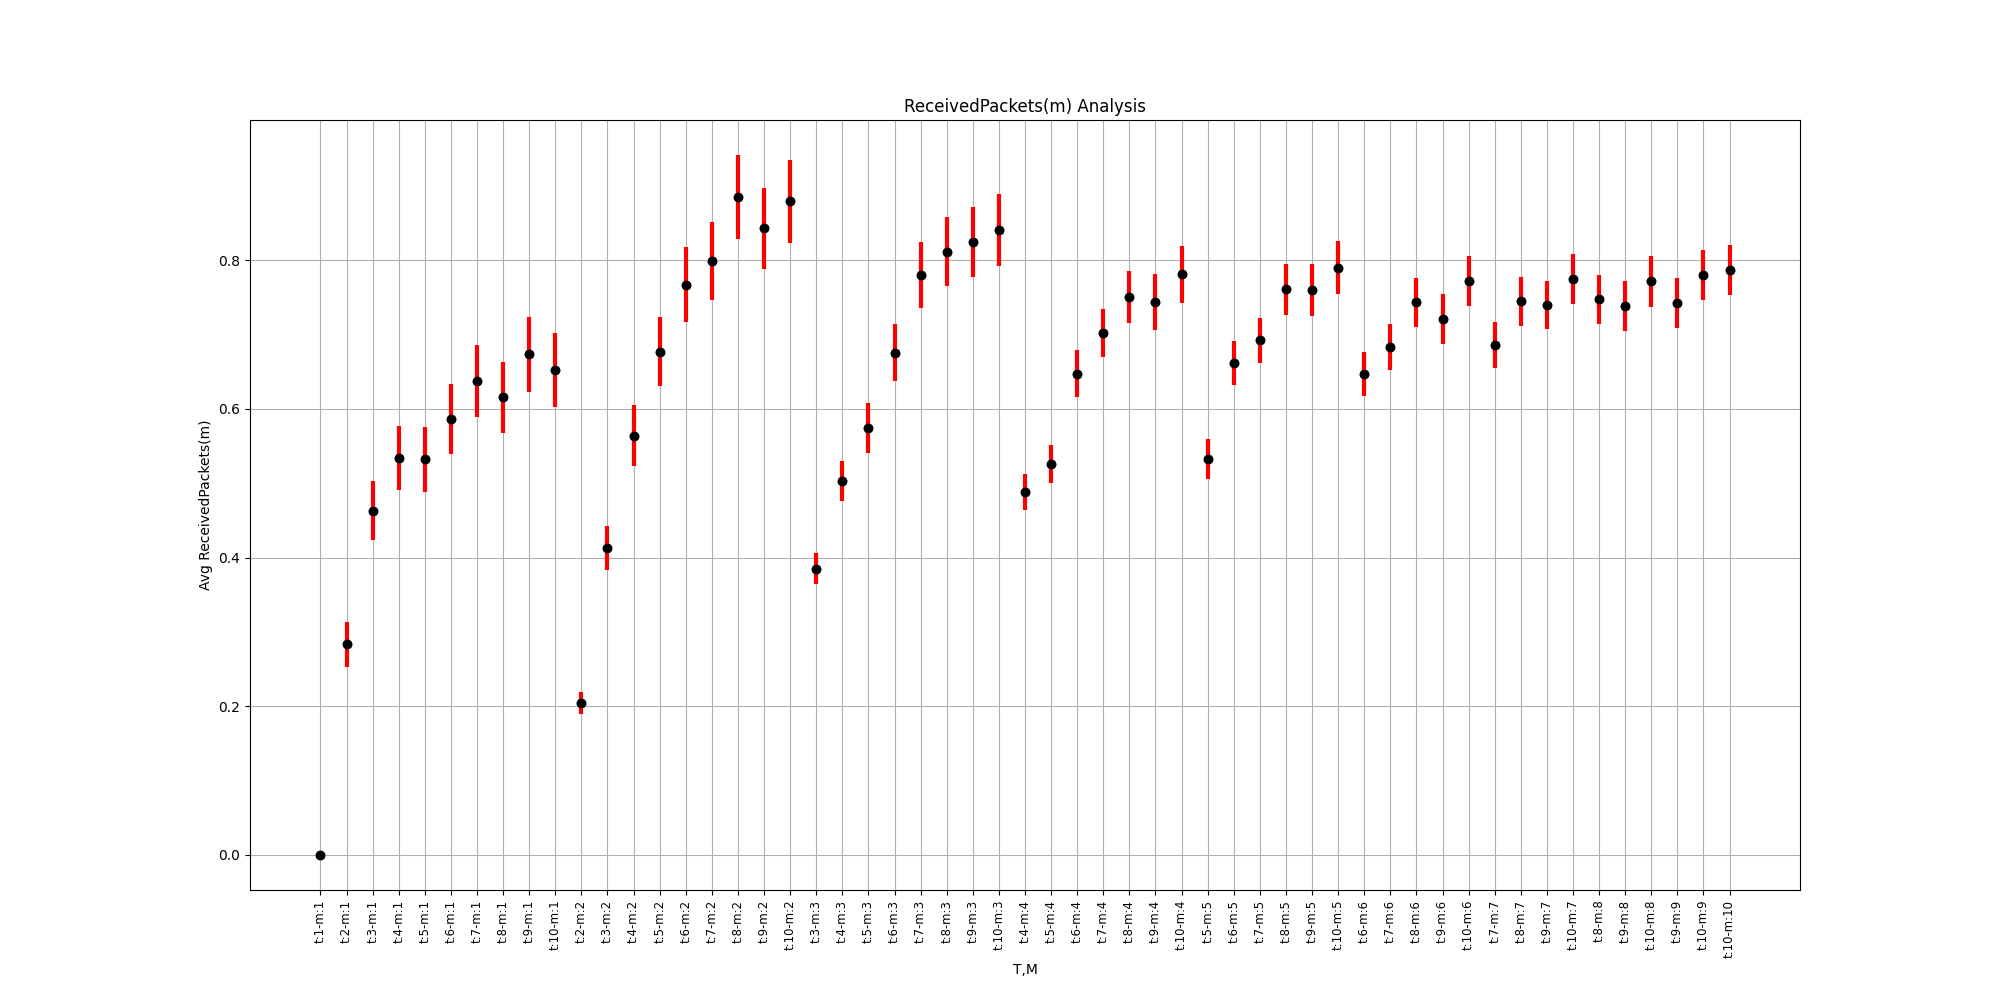
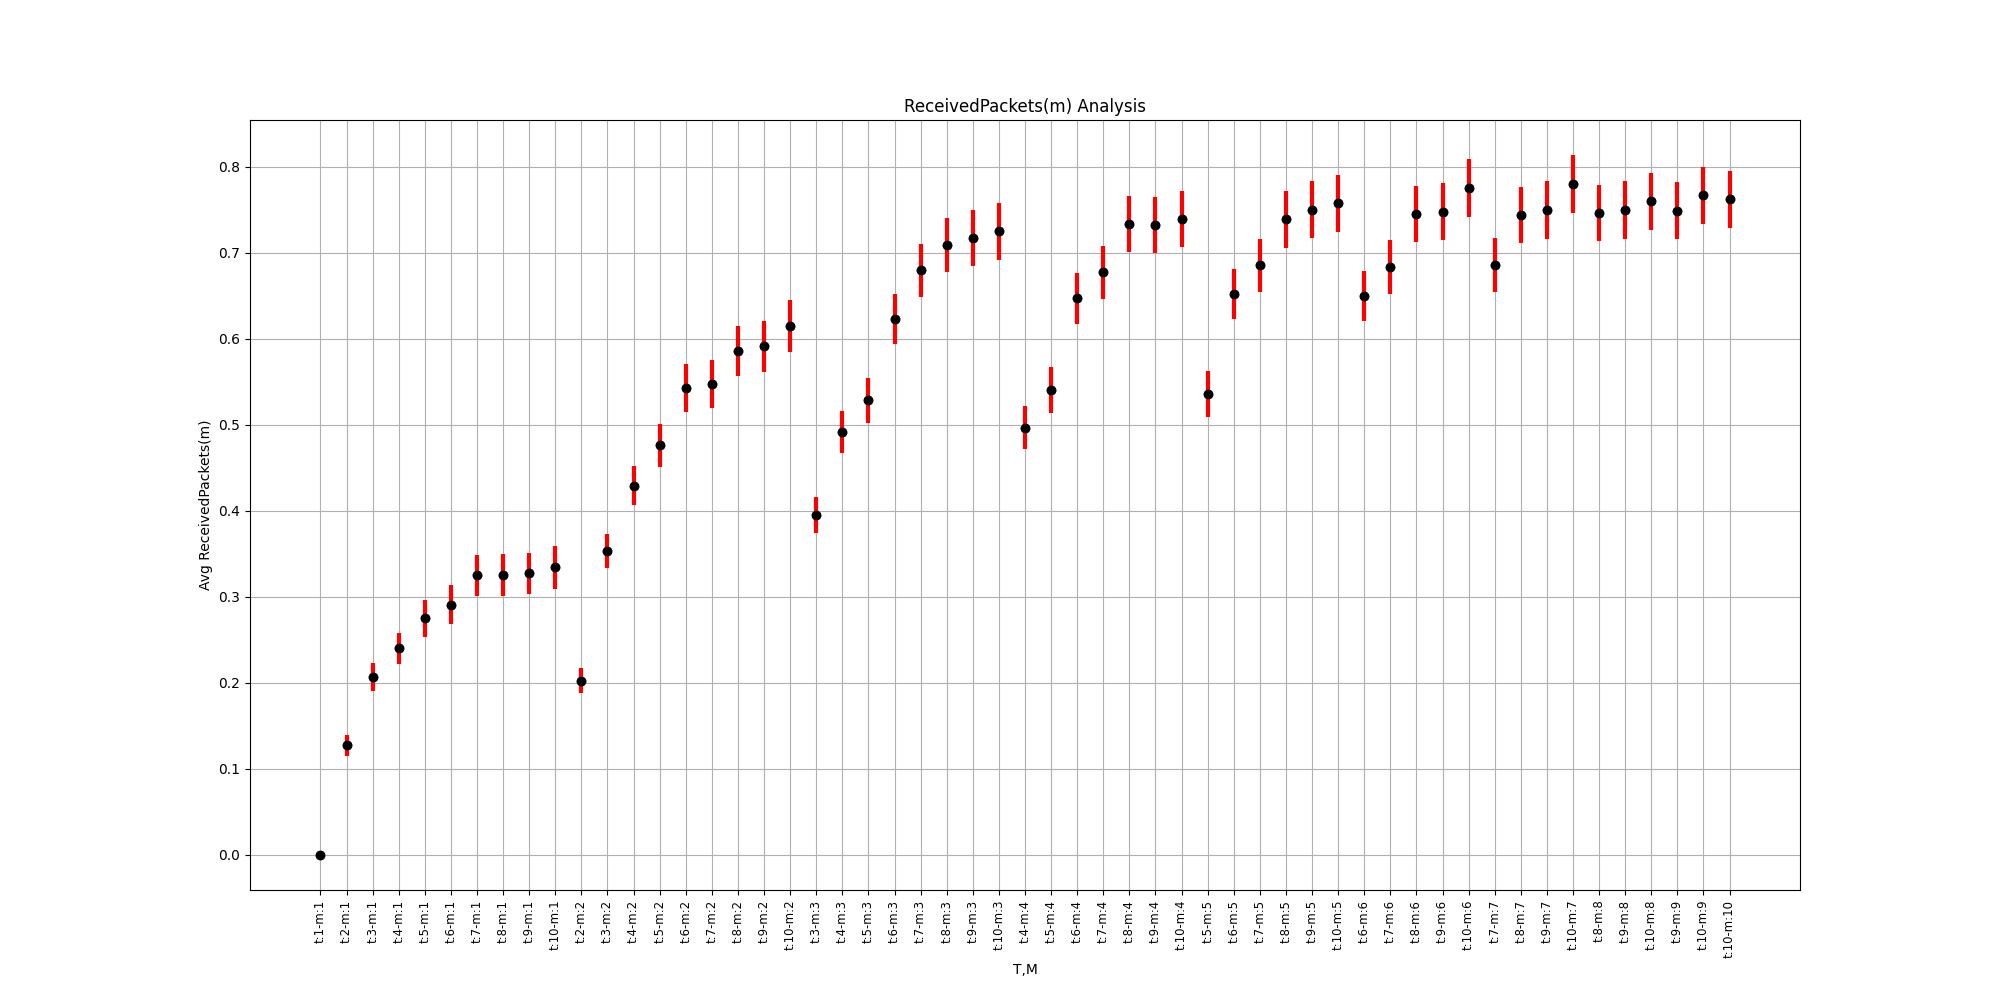
Il tempo di simulazione è correttamente gestito

diff --git a/simulations/collisioni.py b/simulations/collisioni.py
@@ -113,20 +113,22 @@ def print_graph_TM_ratio(title, values_numerator, values_denominator, path):
     #End print_graph_TM_ratio(title, values)
 
 
-collisionValues = {}
-receivedPacketsValues = {}
-coveredValues = {}
-simTimeValues = {}
-sendMessageValues = {}
-neighborsValues = {}
+collisionValues         = {}
+receivedPacketsValues   = {}
+coveredValues           = {}
+simTimeValues           = {}
+sendMessageValues       = {}
+neighborsValues         = {}
 
 files = os.listdir(path)
 #scorro tutti i file e mi salvo nella hashmap key(radius)-vector(values) tutti i valori 
 
 for file in files:
     if file.endswith(".csv"):
-        coveredValuesTmp = []
-        sendMessageValuesTmp = []
+        coveredValuesTmp        = []
+        sendMessageValuesTmp    = []
+        simTimeValuesTmp        = []
+
         rowFile = pd.read_csv(os.path.join(path,file))
         header = extractHeader(rowFile)
         custom_key = "t:"+header['T']+"-"+"m:"+header['m']
@@ -149,10 +151,8 @@ for file in files:
             elif(rowFile['name'][i] == '#Covered'):
                 coveredValuesTmp.append(rowFile['value'][i])
 
-            elif (rowFile['name'][i] == '#SimTime[ms]'):
-                if not custom_key in simTimeValues:
-                    simTimeValues[custom_key] = []
-                simTimeValues[custom_key].append(rowFile['value'][i])
+            elif (rowFile['name'][i] == '#FirstMessageTime[slot]'):
+                simTimeValuesTmp.append(rowFile['value'][i])
 
             elif (rowFile['name'][i] == '#SendMessage'):
                 sendMessageValuesTmp.append(rowFile['value'][i])
@@ -179,6 +179,12 @@ for file in files:
             sendMessageValues[custom_key] = []
         sendMessageValues[custom_key].append(sumSendMessage)
 
+        if not custom_key in simTimeValues:
+            simTimeValues[custom_key] = []
+        simTimeValues[custom_key].append(np.max(simTimeValuesTmp))
+
+
+
 #Genero il nome della cartella e la creo
 folderTitle = "Radius(" + header['R'] + ")_Redrop(" + header['redrop'] + ")_Repetition(" + header['numberRepetition'] + ")_CL(" + str(confidanceLevel) + ")"
 save_path = os.path.join("graph",folderTitle)
@@ -195,11 +201,11 @@ for order in order_key:
 
     print_graph_TM("Collision("+order_by+")",collisionValues, save_path)
 
-    print_graph_TM("ReceivedPackets("+order_by+")",receivedPacketsValues, save_path)
+    print_graph_TM("ReceivedPacketsInTSlot("+order_by+")",receivedPacketsValues, save_path)
 
     print_graph_TM("Covered("+order_by+")",coveredValues, save_path)
 
-    print_graph_TM("SimulationTime("+order_by+")",simTimeValues, save_path)
+    print_graph_TM("SimulationTimeSlot("+order_by+")",simTimeValues, save_path)
 
     print_graph_TM("SendMessage("+order_by+")",sendMessageValues, save_path)
 

diff --git a/src/User.cc b/src/User.cc
@@ -122,6 +122,10 @@ void User::handleMessage(cMessage *msg)
             this->currentStatus = SCHEDULING;
             EV<<"Status from waiting to scheduling"<<endl;
 
+            //This is necessary in order to compute the convergence time.
+            this->firstMessageTime = simTime();
+
+
             break;
 
         case SCHEDULING:
@@ -184,6 +188,9 @@ void User::handleCollision(){
 
             this->currentStatus = WAITING;
 
+            //A collision occured on the first message.
+            this->firstMessageTime = -1;
+
             break;
 
         case LISTENING:
@@ -239,8 +246,8 @@ void User::finish(){
     EV<<"Collisions: "<<this->collisions<<" "<<"Packets: "<<this->receivedPackets<<" Packets in T Slots:"<<this->receivedPacketsInTSlots<<endl;
 
     //SimTime recorded just once by the Initiator, for simplicity
-    if (this->sendInitialMessage)
-        recordScalar("#SimTime[ms]", simTime() * ONE_SECOND + this->slotSize);
+    //if (this->sendInitialMessage)
+    recordScalar("#FirstMessageTime[slot]", this->firstMessageTime * ONE_SECOND / this->slotSize);
 
     recordScalar("#PacketCount", this->receivedPackets);
     recordScalar("#Collision", this->collisions);

diff --git a/src/User.h b/src/User.h
@@ -44,6 +44,10 @@ class User : public cSimpleModule
         //Time when last message is received
         simtime_t lastMessageTime = -1;
 
+        //Time when first message is received
+        simtime_t firstMessageTime = -1;
+
+
         //Current Status of the Node
         status currentStatus;
 
